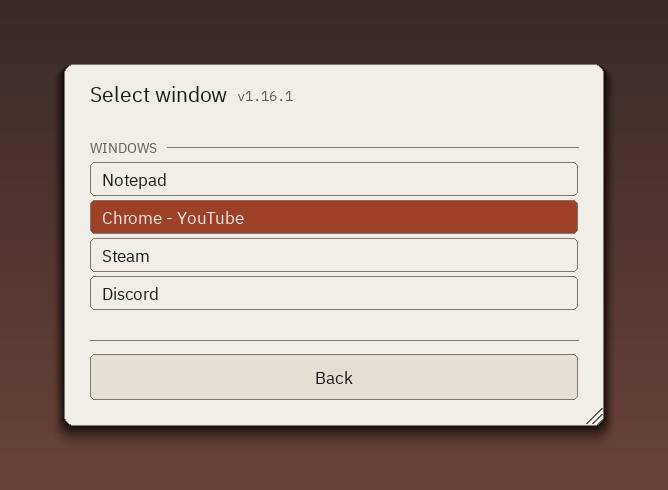
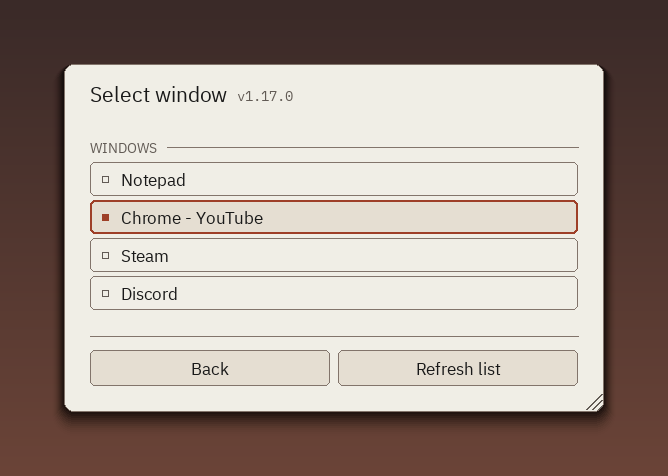
release: v1.17.0 - the panel redesign, and fixes from the tracker
Bumps the version in every place that carries it: settings_io.APP_VERSION (the
runtime source, and what autocheck reads), build_release_zip.VERSION (names the
archive), and BOTH fields in native/launcher.rc (FileVersion, ProductVersion) -
a missed field leaves the old number in the exe properties. The launcher is
rebuilt, so the exe carries 1.17.0 in UTF-16 and no trace of the old version.

Screenshots are regenerated: the version is printed in the panel header on every
one of them, so shipping without them would show the previous version on the
repository page. Verified by reading the header of each - all four say v1.17.0.

CHANGELOG carries the entry, written BEFORE the manifest is repinned; the order
matters and this has been missed twice.

The release run list was missing four tests (the new ones from this package) and
two that had drifted out of it earlier (test_nr_truthful_state,
test_silent_spots). All four are registered in both places the runner expects -
the ABOUT map and the run list - and the suite now covers every test file in the
repository: 183 on disk, 183 listed.

diff --git a/tests/run_tests.py b/tests/run_tests.py
@@ -220,6 +220,7 @@ TEST_GROUPS = {
         "test_audio_limiter.py",
         "test_audio_pack.py",
         "test_bake_menu.py",
+        "test_bake_menu_position.py",
         "test_boost_toggle.py",
         "test_build_scripts_portable.py",
         "test_capture_format_stability.py",
@@ -234,6 +235,7 @@ TEST_GROUPS = {
         "test_crash_report.py",
         "test_diagnostic_bundle.py",
         "test_env_header.py",
+        "test_every_control_clickable.py",
         "test_esc_order.py",
         "test_follow_monitor_init.py",
         "test_frame_pacing.py",
@@ -294,6 +296,7 @@ TEST_GROUPS = {
         "test_menu_position.py",
         "test_menu_scroll.py",
         "test_menu_state_keys.py",
+        "test_minimised_window_menu.py",
         "test_module_layers.py",
         "test_monitor_hint.py",
         "test_monitor_identity.py",
@@ -327,10 +330,10 @@ TEST_GROUPS = {
         "test_save_dialog.py",
         "test_screenshot_before_dialog.py",
         "test_settings_hints.py",
+        "test_silent_spots.py",
         "test_shot_dir.py",
         "test_shot_unicode.py",
         "test_status_fg_off.py",
-    "test_silent_spots.py",
         "test_spout_shutdown.py",
         "test_spout_toggle.py",
         "test_state_contract.py",
@@ -345,7 +348,6 @@ TEST_GROUPS = {
         "test_wait_rack_eof.py",
         "test_window_filter.py",
         "test_window_follow_size.py",
-        "test_minimised_window_menu.py",
         "test_window_labels.py",
         "test_window_surround.py",
         "test_windows_page.py",
@@ -369,6 +371,7 @@ TEST_GROUPS = {
         "test_hdr_capture.py",
         "test_motion_small.py",
         "test_ngx_forwarder.py",
+        "test_nr_truthful_state.py",
         "test_nr_small.py",
         "test_odd_frame_size.py",
         "test_out_shm.py",

diff --git a/settings_io.py b/settings_io.py
@@ -121,7 +121,7 @@ def _set_autostart(enabled: bool) -> bool:
 
 # The version shown in the menu header. Kept in sync with native/launcher.rc
 # (FileVersion/ProductVersion) and build_release_zip.py at release time.
-APP_VERSION = "1.16.1"
+APP_VERSION = "1.17.0"
 
 
 # The channel label: the header shows the version, the channel lives in the

diff --git a/build_release_zip.py b/build_release_zip.py
@@ -32,7 +32,7 @@ from typing import Iterable, Sequence
 
 
 BASE = Path(__file__).resolve().parent
-VERSION = "1.16.1"
+VERSION = "1.17.0"
 EXPECTED_TAG = f"v{VERSION}"
 TARGET_ARCHS = (
     "RTX 30/40/50 (sm_86/89/120 kernels, spoof 0x1B0; "

diff --git a/CHANGELOG.md b/CHANGELOG.md
@@ -30,6 +30,55 @@ Scope and honesty notes:
 
 ---
 
+## v1.17.0 - 2026-09-20 - the panel redesign, and fixes from the tracker
+
+This is a **pre-release for testing**: the panel was rebuilt to the new mockup and
+this package carries the first reports from the tracker. It is published as a
+normal release so everyone can reach it - read the known limits below before
+filing anything.
+
+* **The panel was redesigned** to the approved mockup, section by section:
+  numbered sections, the value plate on every slider, the tabbed Settings page,
+  the ACTIONS icons, and a tighter vertical rhythm. The Frame Generation row is
+  now one control - `off / x2 / x3 / x4` - with no separate switch, so one click
+  on a multiplier turns it on.
+* **The generated rate is shown with the rate it is built on** (#109): the line
+  reads `FG 178 (60.0)` instead of two separate readings. Two numbers side by
+  side stated both values but not their relation, and the relation is what the
+  pair means. With Frame Generation running alone the single `FG` reading is
+  unchanged.
+* **Frame limit now says what it counts** (#109): it caps the SOURCE frames the
+  network processes, and Frame Generation rides on top of them - which is why a
+  60 cap and a 170 counter can both be true. The row carries a hint saying so, in
+  all twelve languages.
+* **Hints wrap and fit their row.** The drop-down rendered a hint as one
+  unclipped line while the slider already wrapped, so a real sentence was cut at
+  the panel edge. Both now share one implementation, and the layout reserves the
+  height the wrapped text needs.
+* **The first click on the taskbar button opens the menu again.** A click on a
+  not-yet-active button arrives as `WM_NCACTIVATE(1)`, which the guard rejected as
+  a duplicate; only the second click worked, by a different route. The previous
+  window's state now separates a real click (its window is alive) from the
+  fallback activation that follows another window being minimised, so the #96
+  behaviour is kept while the first click works.
+* **The menu no longer disappears with the captured window** (one-window mode):
+  the layer was hidden whenever the source window was minimised, taking the menu
+  with it - the taskbar button then looked dead. The picture correctly stops when
+  there is nothing to capture; the panel stays visible.
+* **The menu in a saved screenshot is placed where it is on screen** (#107): in
+  one-window mode the panel was composited at the frame's coordinates and landed
+  up to 524 px away from where the user sees it.
+* **Clicking Screenshot crashed the program** - `_Pipeline` uses `__slots__` and
+  two diagnostic fields were never declared. A test now presses every control on
+  every page (94 actions) against the real pipeline, so an undeclared field fails
+  in the suite instead of on the user's first click.
+
+Known limits in this build (unchanged): the network works up to 2560x1440, the
+overlay is invisible to external recorders, and exclusive-fullscreen games are not
+covered - see the README section "Limits".
+
+---
+
 ## v1.16.1 - 2026-09-19 - the status line told the truth about Frame Generation
 
 * Frame Generation was reported as "not processing" while Neural Rendering was
